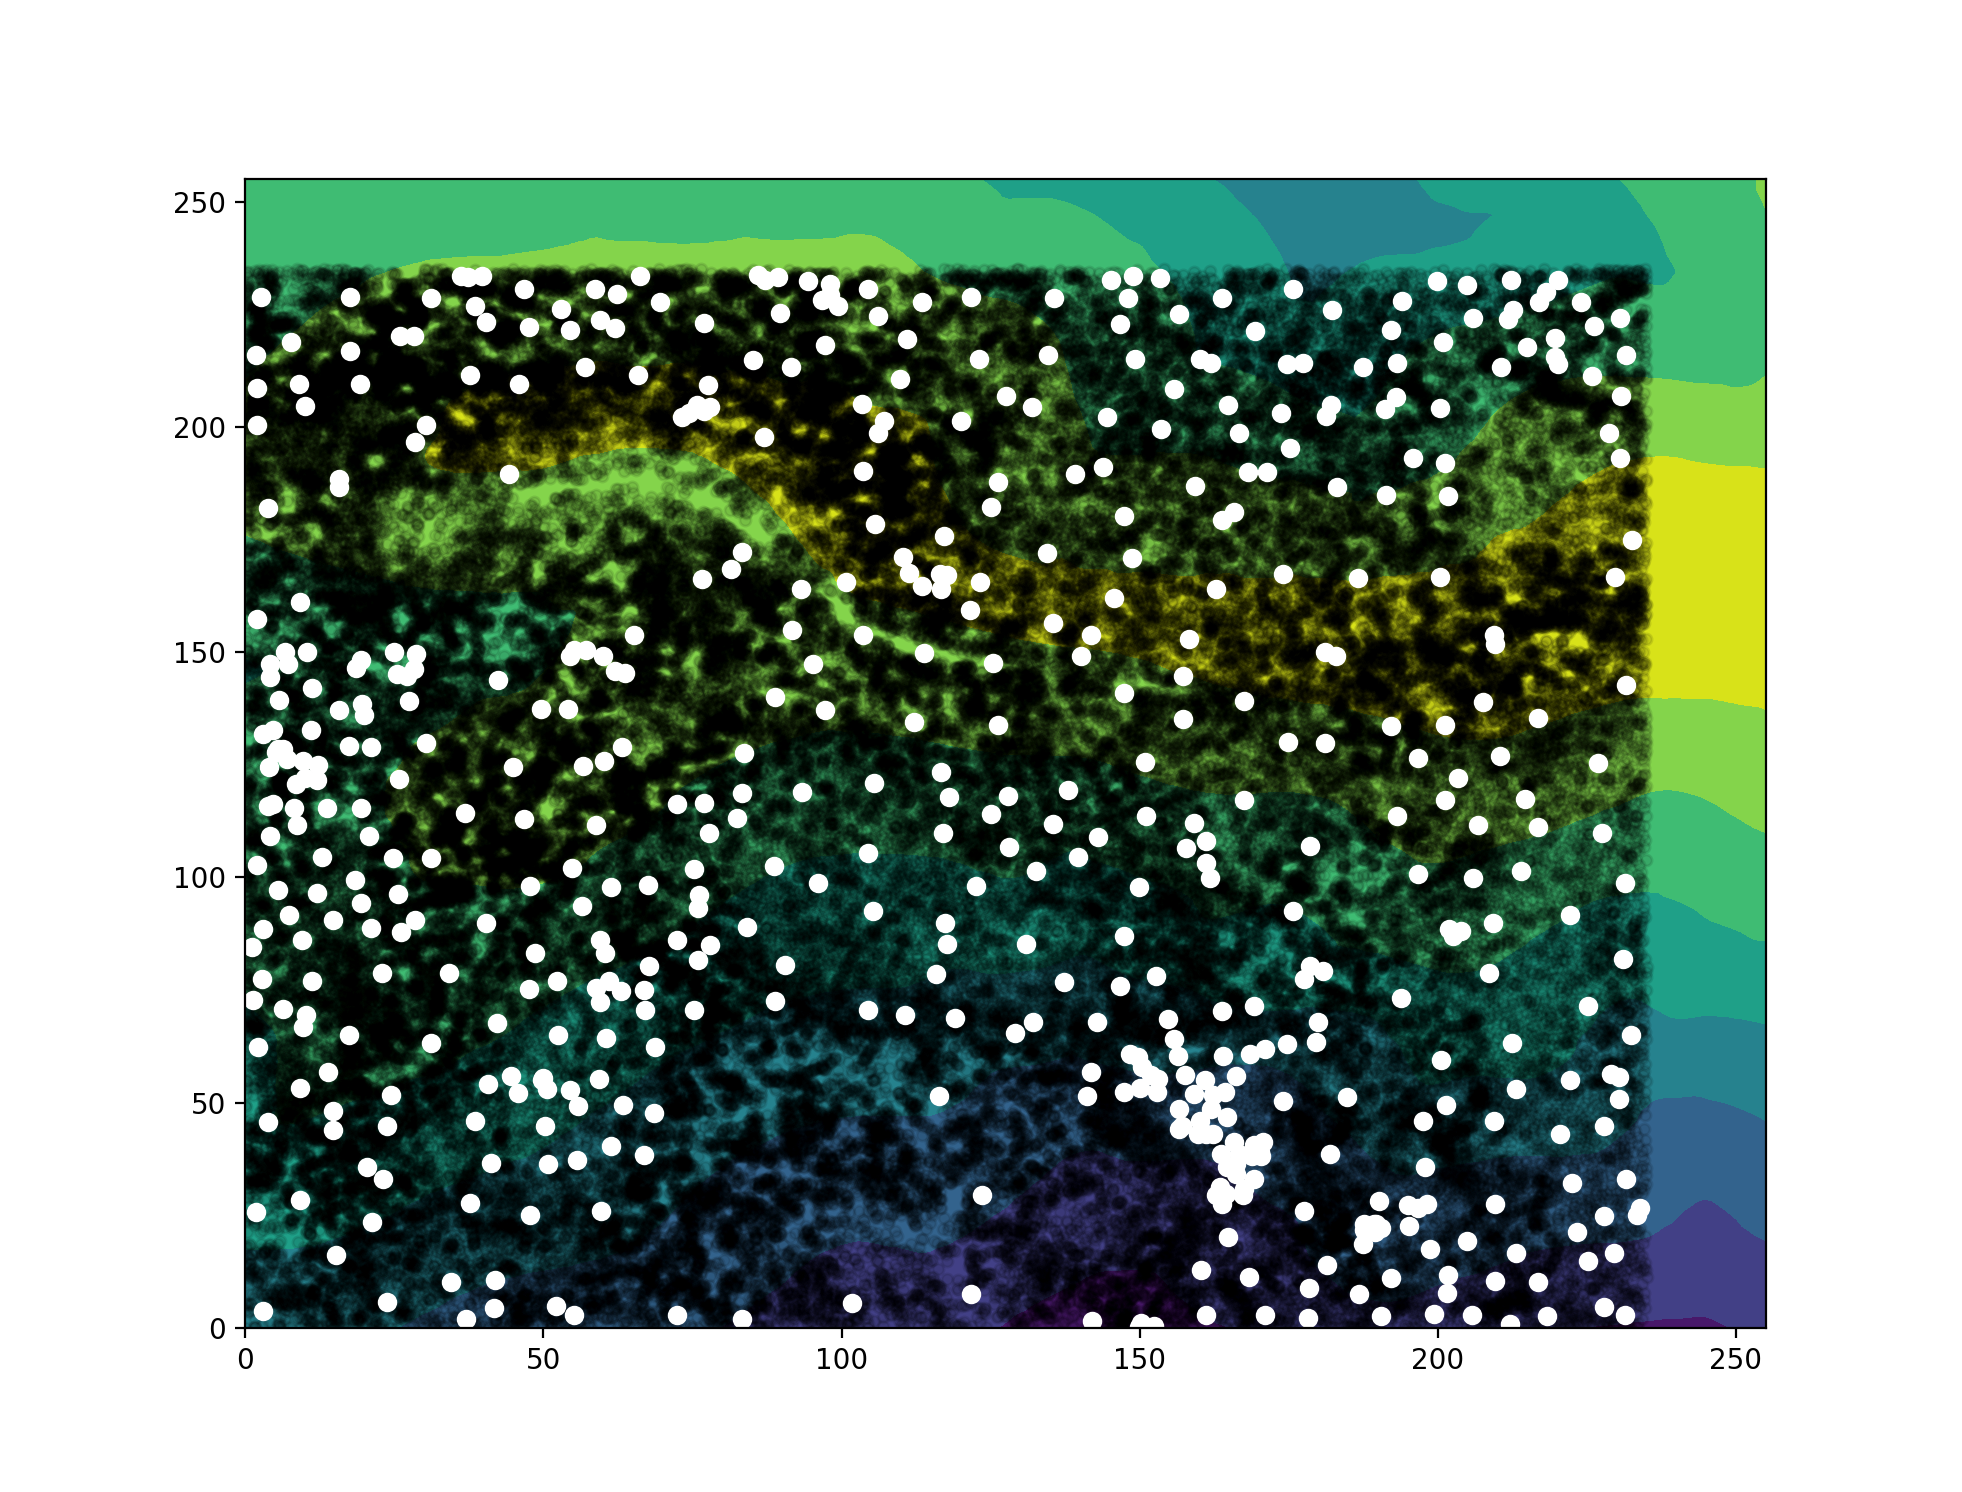
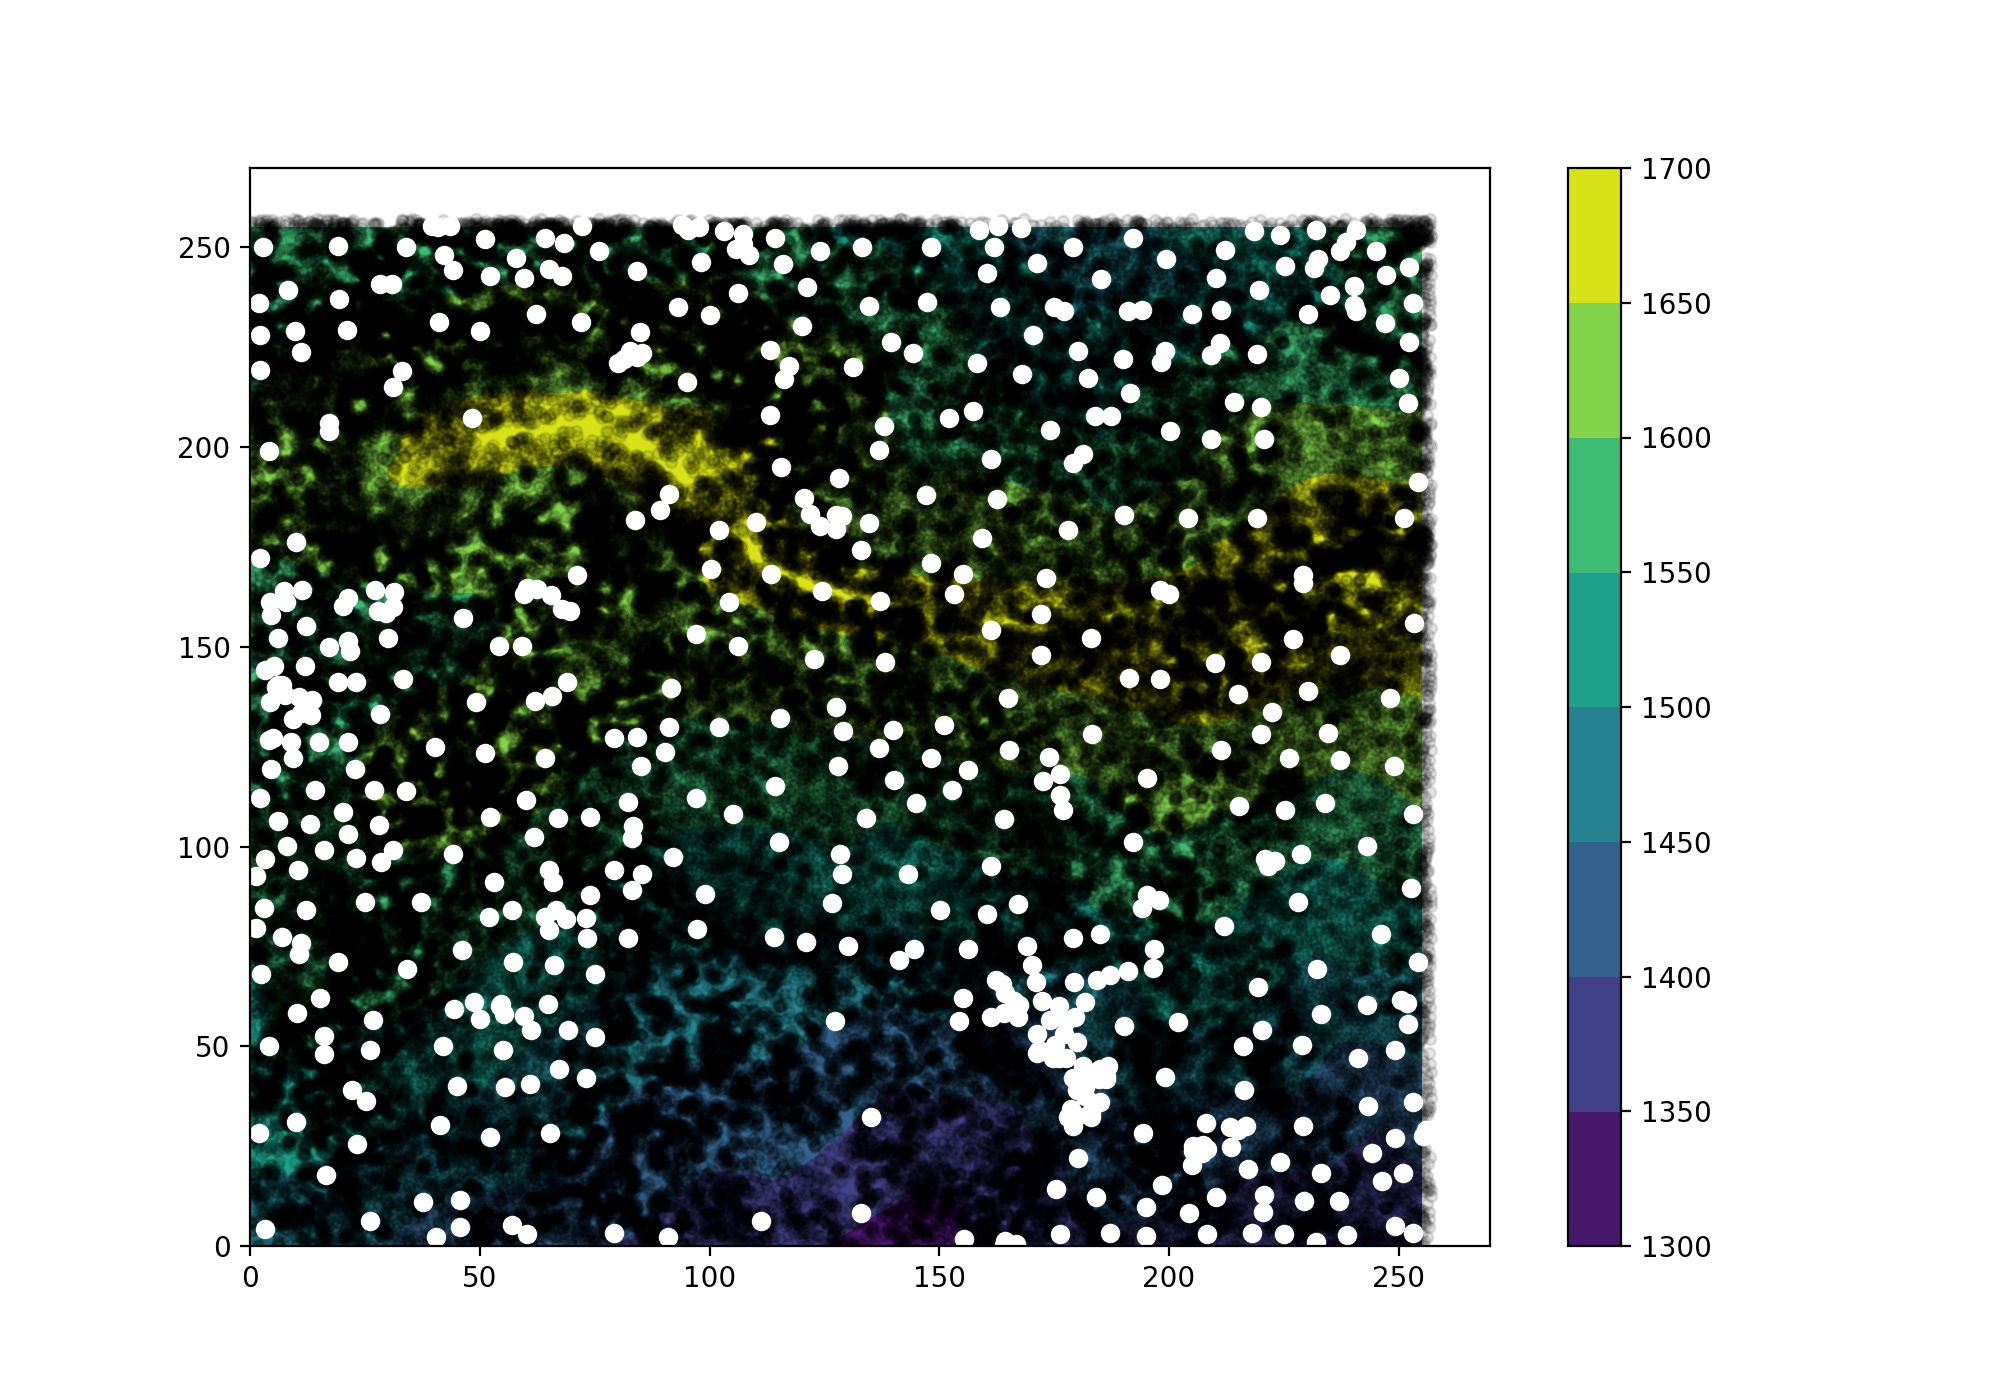
added colorbar and divided tree vectors by grid spacing to obtain this plot
Former-commit-id: 8f2e26fb06fb599f049d8d83ac012a3663488431

diff --git a/EcoViz Data/contourPlot.py b/EcoViz Data/contourPlot.py
@@ -47,7 +47,7 @@ for i in range(0,numSpecies):
         xTreeCoords.append(float(plantVectors[i][j][0]))
         yTreeCoords.append(float(plantVectors[i][j][1]))
 
-plt.plot(np.array(xTreeCoords),np.array(yTreeCoords),'ko',alpha = 0.1,ms=4)
+plt.plot(np.array(xTreeCoords)/float(gridSpace),np.array(yTreeCoords)/float(gridSpace),'ko',alpha = 0.1,ms=4)
 
 f = open('S6000-6000-256_canopy.pdb','r')
 numSpecies = int(f.readline())
@@ -72,8 +72,7 @@ for i in range(0,numSpecies):
 #print(xTreeCoords)
 #print()
 #print(yTreeCoords)
-plt.plot(np.array(xTreeCoords),np.array(yTreeCoords),'wo')
-
-
-
+plt.plot(np.array(xTreeCoords)/float(gridSpace),np.array(yTreeCoords)/float(gridSpace),'wo')
+#plt.gca()
+plt.colorbar()
 plt.show()
